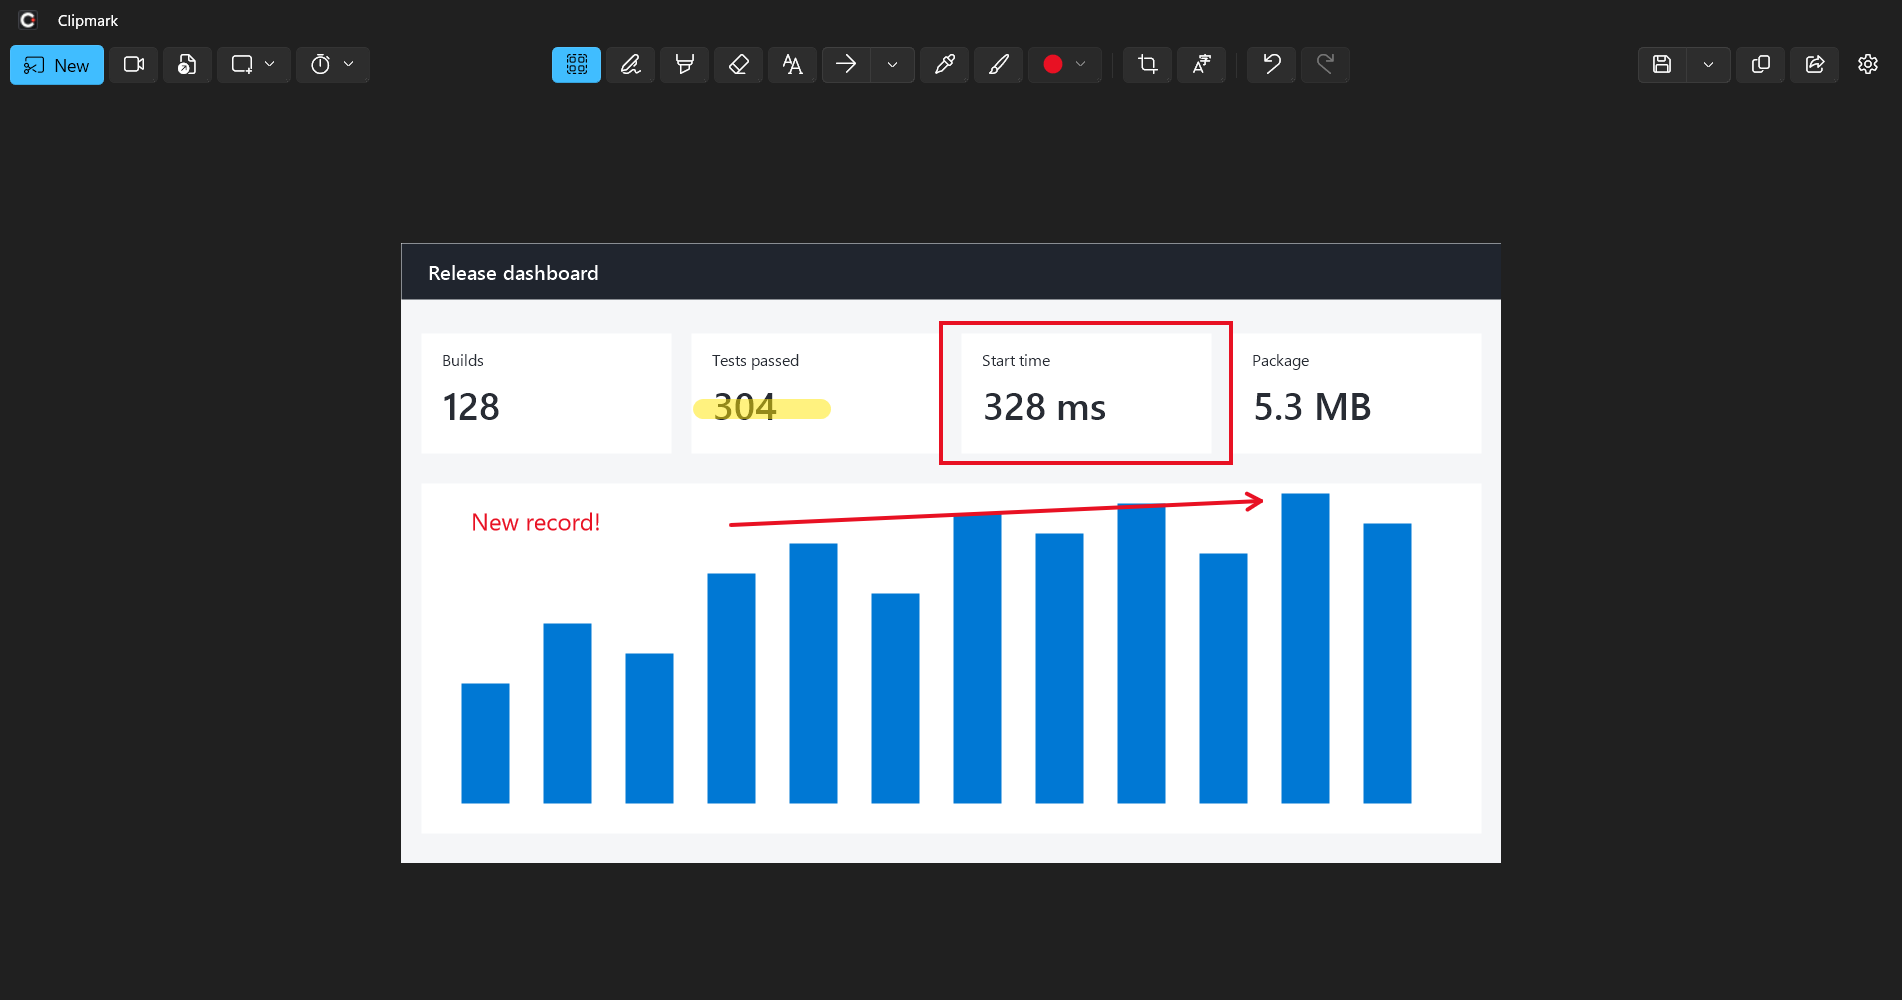
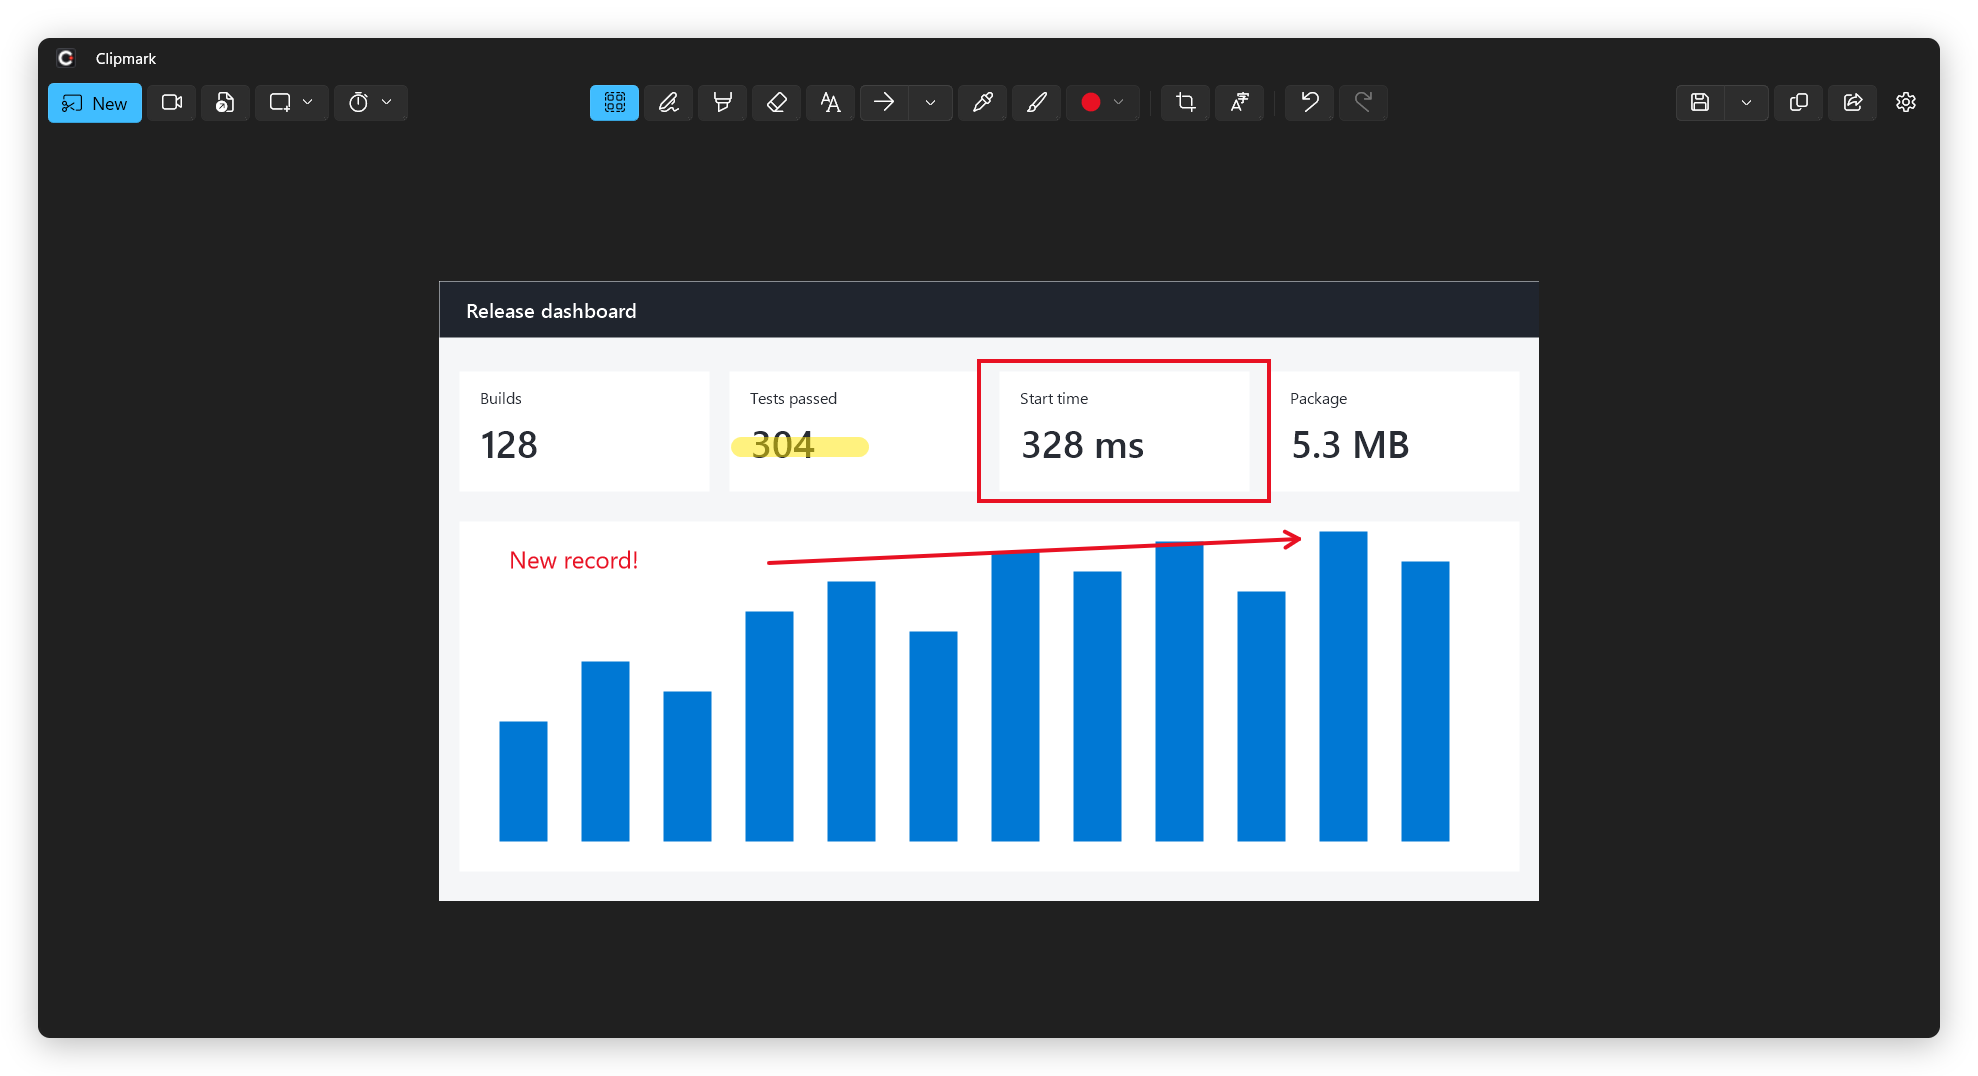
README: Clipmark vs Snipping Tool comparison, Disclaimer section, framed screenshots
Screenshots get rounded corners and a soft shadow baked into the PNG, because GitHub strips CSS. The record bar image is cropped to the bar.

Changed region(s): [[0.1861, 0.248, 0.8065, 0.868], [0.0, 0.0, 1.0, 1.0]]

diff --git a/README.md b/README.md
@@ -41,6 +41,22 @@
 - Lives in the tray, single instance, starts with Windows on request
 - Toast notifications with banners; clicking one opens the capture while Clipmark runs
 
+## Clipmark vs Snipping Tool
+
+| | Clipmark | Snipping Tool |
+|---|---|---|
+| Capture modes | Rectangle, window, full screen, all monitors, freeform | Rectangle, window, full screen, freeform |
+| Pen, highlighter, eraser, shapes | Yes | Yes |
+| Select, move, resize and rotate after drawing | Yes | No |
+| Arrows that attach to shapes and follow them | Yes | No |
+| Text labels | Yes, editable later | No (Edit with Paint) |
+| Fill for shapes and background | Yes | No |
+| Eyedropper / color picker | Yes, on every PC | Copilot+ PCs only |
+| Reopen a capture with editable objects | Yes (editable PNG) | No |
+| OCR copy and quick redact | Yes | Yes |
+| Screen recording with system audio and microphone | Yes, MP4 | Yes, MP4, with Clipchamp editing |
+| Perfect screenshot (automatic fit to content) | No | Copilot+ PCs only |
+
 **Footprint** (measured on the development PC, median of 5 starts)
 
 | | Clipmark 1.0.0 (self-contained zip) | Snipping Tool 11.2608 |
@@ -90,10 +106,10 @@ pwsh scripts/publish-release.ps1   # self-contained Native AOT zip in artifacts\
 `src/Clipmark.Core` holds the document model, geometry, editable file format, audio mixer and settings, fully unit
 tested. `src/Clipmark.App` is the WinUI 3 app (Win2D canvas, GDI overlay, Windows.Graphics.Capture recorder, WASAPI).
 
-## Clean-room note
+## Disclaimer
 
-Clipmark is an independent project and is not affiliated with Microsoft. It contains no code, assets or binaries from
-Snipping Tool or Shotoshot. See [THIRD-PARTY-NOTICES.md](THIRD-PARTY-NOTICES.md) for the libraries it uses.
+Clipmark is an independent project and is not affiliated with Microsoft. See
+[THIRD-PARTY-NOTICES.md](THIRD-PARTY-NOTICES.md) for the libraries it uses.
 
 ## License
 
